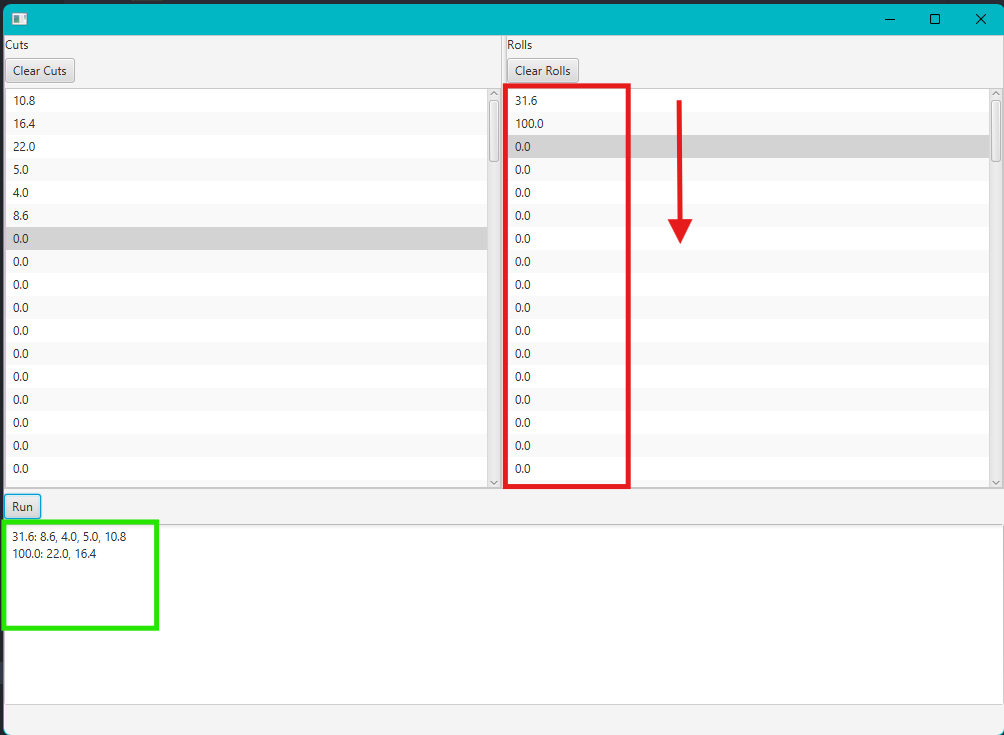
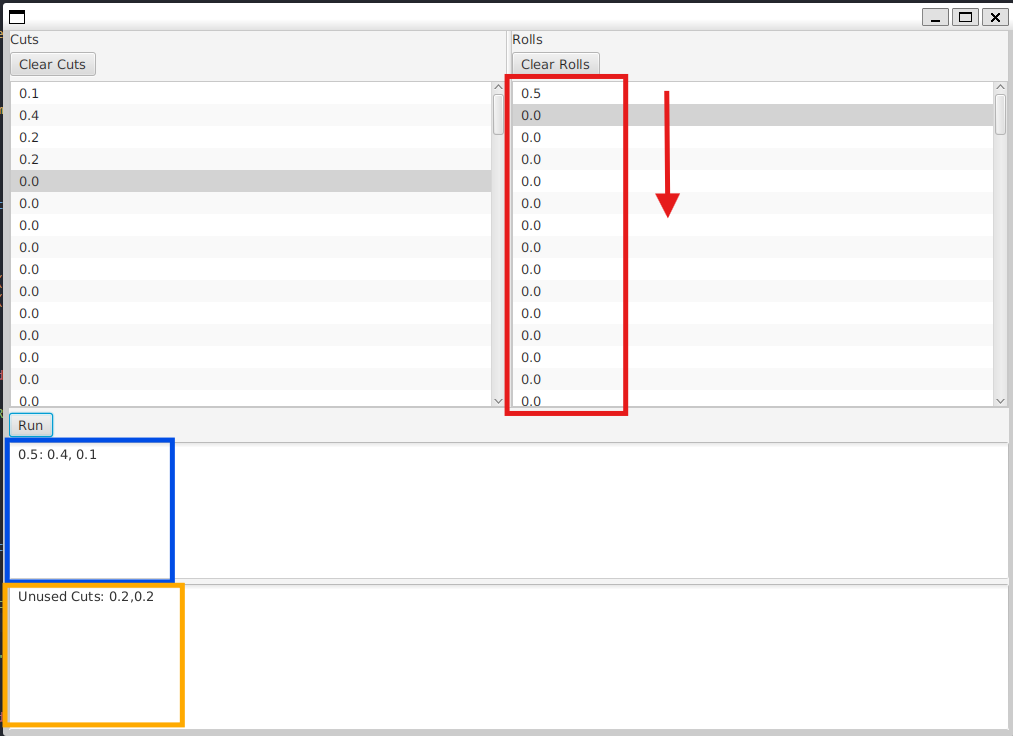
Added new unused cuts area and bumbed version number

Changed region(s): [[0.0, 0.0, 1.0, 1.0]]

diff --git a/src/main/java/io/github/retrobitcoder/CutsToRollsController.java b/src/main/java/io/github/retrobitcoder/CutsToRollsController.java
@@ -1,6 +1,7 @@
 package io.github.retrobitcoder;
 
 import java.util.ArrayList;
+import java.util.List;
 
 import javafx.collections.FXCollections;
 import javafx.collections.ObservableList;
@@ -31,6 +32,9 @@ public class CutsToRollsController {
 
     @FXML
     private TextArea resultsTextArea;
+
+    @FXML
+    private TextArea unusedCutsTextArea;
 
     private ObservableList<Measurement> cutsObservableList = FXCollections.observableArrayList();
 
@@ -75,6 +79,8 @@ public class CutsToRollsController {
         solver.solve();
 
         resultsTextArea.setText(solver.getSolutions());
+
+        unusedCutsTextArea.setText(solver.getUnusedCuts());
     }
 
     private void initButtons() {

diff --git a/src/main/java/io/github/retrobitcoder/Solver.java b/src/main/java/io/github/retrobitcoder/Solver.java
@@ -49,6 +49,24 @@ public class Solver {
         return builder.toString();
     }
 
+    public String getUnusedCuts() {
+        StringBuilder builder = new StringBuilder();
+
+        if (!cuts.isEmpty()) {
+            builder.append("Unused Cuts: ");
+            
+            cuts.forEach(cut -> {
+                builder.append(cut + ",");
+            });
+
+            builder.deleteCharAt(builder.length() - 1);
+        } else {
+            builder.append("All cuts used");
+        }
+
+        return builder.toString();
+    }
+
     /**
      * Solve the knapsack problem
      * @param index

diff --git a/README.MD b/README.MD
@@ -1,9 +1,10 @@
 # Cuts to Rolls Solver
 - Uses the weighted Knapsack algorithm to solve for optimizing rolls to cuts
 - Algorithm processes rolls in order from top to bottom, and assumes higher up the list, the more important
-- Solution is printed out in the area shown in the green box
+- Solution is printed out in the area shown in the blue box
+- Any unused cuts are printed out in the area shown in the orange box
 - Cuts and Rolls rows are inputted as FEET.INCHES
-    - The process will handles inches over 12
+    - The process will handle inches over 12
 
 ![Cuts-to-Rolls-Solver](https://github.com/RetrobitCoder/cuts-to-rolls-solver/blob/main/Cuts-to-Rolls-Solver.png)
 
